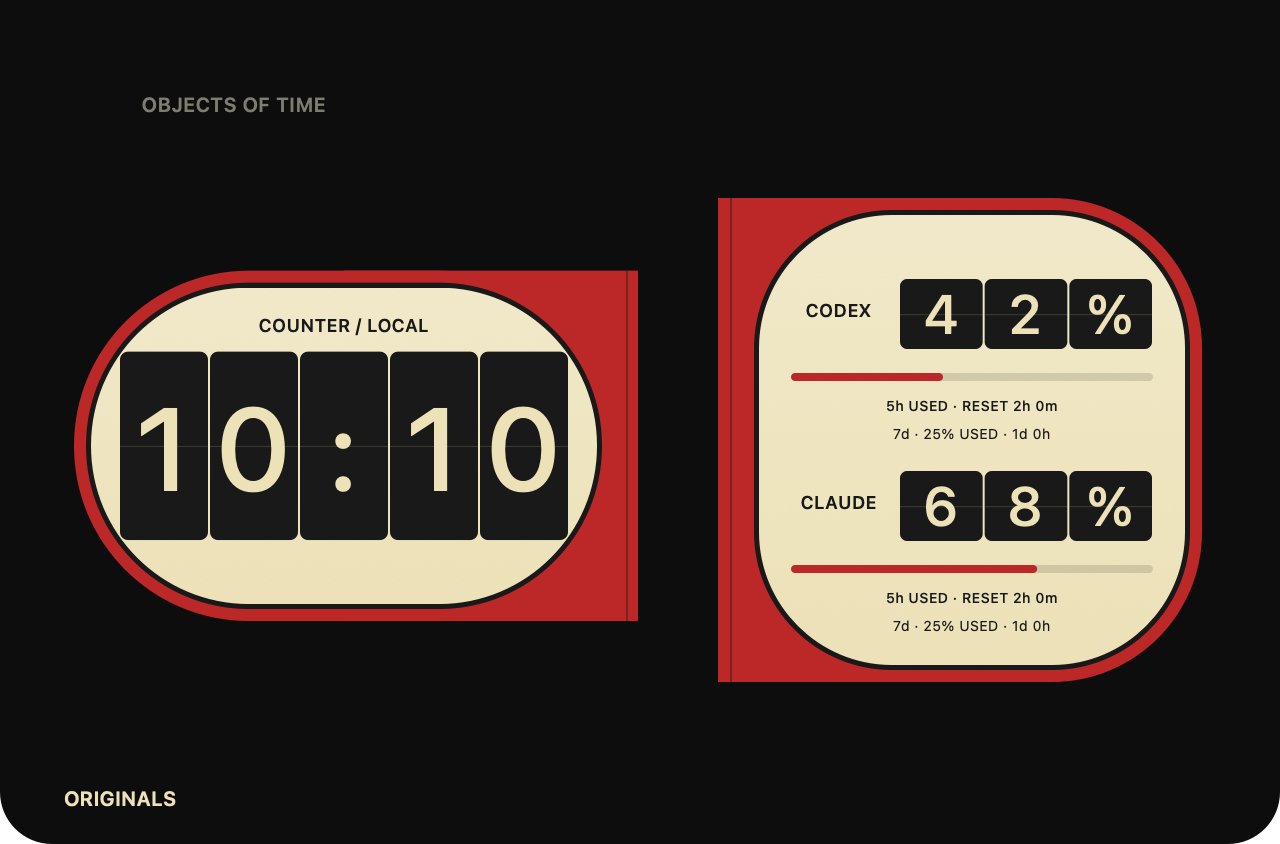
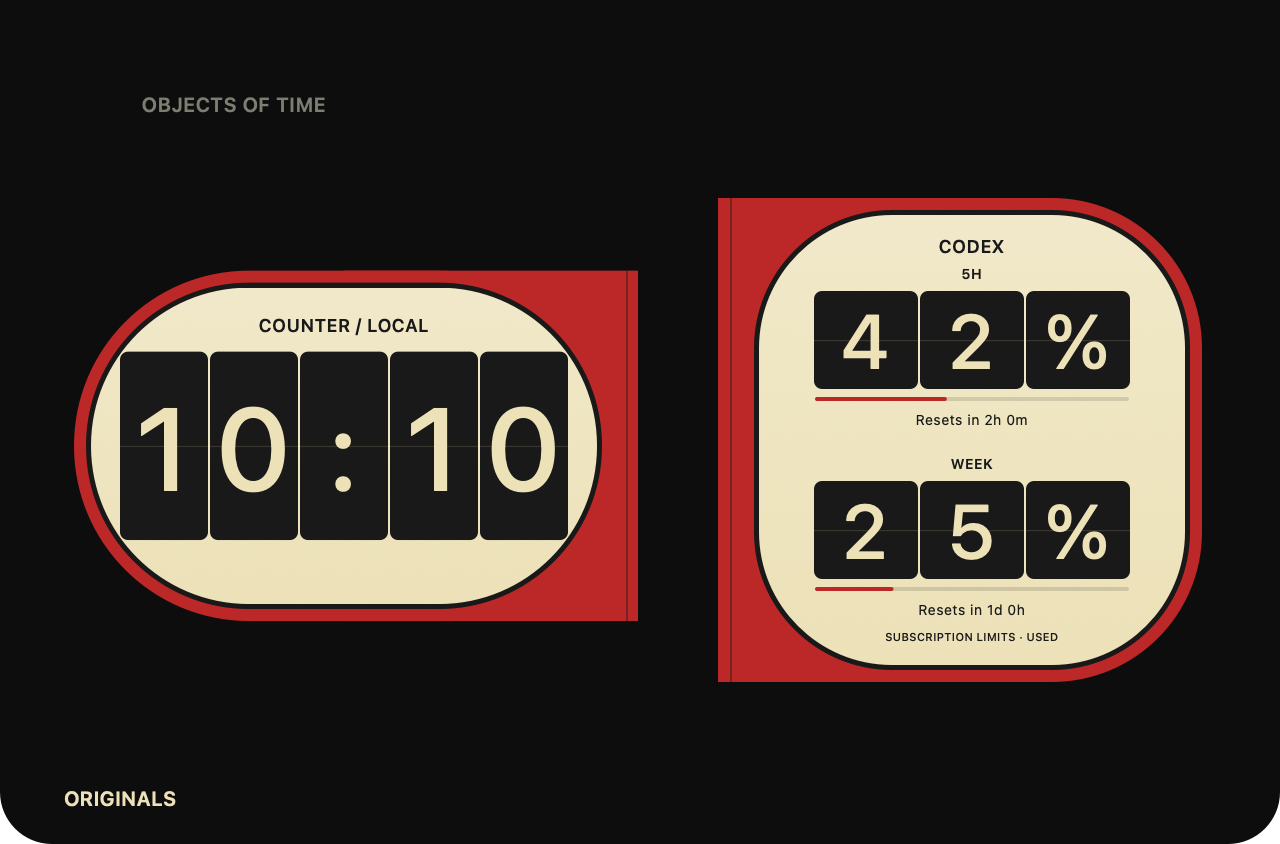
Feat: Split usage desks by provider and emphasize window percentages
Let users select one provider while keeping five-hour and weekly limits independently readable within the shared clock theme.

Key changes include:

- Add optional provider selection to widget packs with a Codex legacy default.
- Add separate Codex and Claude choices to settings and widget menus.
- Render large percentages for exact five-hour and weekly slots with smaller reset labels.
- Restrict refresh work to the selected provider and preserve unavailable states.
- Add provider isolation tests, compatible example packs, and native previews.

Changed region(s): [[0.625, 0.2773, 0.9062, 0.7701]]

diff --git a/Sources/NotchClock/UsageWidgetView.swift b/Sources/NotchClock/UsageWidgetView.swift
@@ -2,65 +2,72 @@ import AppKit
 
 @MainActor
 final class UsageWidgetView: WidgetSurfaceView {
-    private func usable(_ provider: UsageProvider) -> UsageWindow? {
-        snapshots[provider]?.windows.first(where: { !$0.isExpired(at: date) })
+    var provider = UsageProvider.codex { didSet { needsDisplay = true; updateAccessibility() } }
+
+    // Match exact windows so missing five-hour data never borrows the weekly percentage.
+    var windowRows: [UsageWindow?] {
+        [300, 10080].map { duration in
+            snapshots[provider]?.windows.first { $0.durationMinutes == duration }
+        }
     }
 
     override func updateAccessibility() {
-        let labels = UsageProvider.allCases.map { provider in
-            let snapshot = snapshots[provider]
-            let state = snapshot?.isStale(at: date) == true ? "Stale, refresh needed" :
-                (providerStatus[provider] ?? (snapshot == nil ? "Not connected" : "Cached"))
-            let windows = snapshot?.windows.map { window in
-                if window.isExpired(at: date) { return "\(window.shortLabel) window expired, awaiting data" }
-                let reset = window.resetDescription(at: date).map { ", resets in " + $0 } ?? ""
-                return "\(window.shortLabel) window, \(Int(window.usedPercent)) percent used" + reset
-            }.joined(separator: ", ") ?? "Usage unavailable"
-            return "\(provider.title), \(state), \(windows)"
-        }
-        let summary = labels.joined(separator: ". ")
-        setAccessibilityLabel((compact ? "Expand AI usage. " : "AI subscription usage. ") + summary)
+        let snapshot = snapshots[provider]
+        let state = snapshot?.isStale(at: date) == true ? "Stale, refresh needed" :
+            (providerStatus[provider] ?? (snapshot == nil ? "Not connected" : "Cached"))
+        let windows = zip(["5-hour", "Weekly"], windowRows).map { title, window in
+            guard let window else { return "\(title) usage unavailable" }
+            guard !window.isExpired(at: date) else { return "\(title) window expired, awaiting data" }
+            let reset = window.resetDescription(at: date).map { ", resets in " + $0 } ?? ""
+            return "\(title), \(Int(window.usedPercent)) percent used" + reset
+        }.joined(separator: ". ")
+        let summary = "\(provider.title) subscription usage. \(state). \(windows)"
+        setAccessibilityLabel(summary)
         toolTip = summary
     }
 
     override func draw(_ dirtyRect: NSRect) {
         let p = expansionProgress
+        let details = max(0, (p - 0.7) / 0.3)
         let dial = drawThemeHousing(in: bounds.insetBy(dx: mix(0.5, 4, p), dy: mix(0.5, 12, p)),
                                     palette: palette, accent: accent, progress: p, mountOnLeft: true)
-        for (index, provider) in UsageProvider.allCases.enumerated() {
-            let value = usable(provider).map { "\(Int($0.usedPercent))%" } ?? "--"
+        drawText(provider.title.uppercased(),
+                 at: NSRect(x: dial.minX, y: dial.minY + mix(0, 10, p), width: dial.width, height: mix(6, 13, p)),
+                 font: .systemFont(ofSize: mix(4.5, 9, p), weight: .semibold), color: palette.ink)
+        let snapshot = snapshots[provider]
+        for (index, window) in windowRows.enumerated() {
+            let valid = window.map { !$0.isExpired(at: date) } ?? false
+            let value = valid ? window.map { "\(Int($0.usedPercent))%" } ?? "--" : "--"
             let compactX = dial.minX + CGFloat(index) * dial.width / 2
-            let y = dial.minY + 32 + CGFloat(index) * 96
-            let number = mix(NSRect(x: compactX + 4, y: dial.midY - 4, width: dial.width / 2 - 8, height: 11),
-                             NSRect(x: dial.minX + 70, y: y, width: dial.width - 86, height: 35), p)
-            if value == "--" {
-                drawText(value, at: number, font: .systemFont(ofSize: mix(9, 26, p)), color: palette.ink)
-            } else { drawThemeNumber(value, in: number, family: visualFamily, palette: palette) }
-            let label = mix(NSRect(x: compactX + 2, y: dial.minY + 2, width: dial.width / 2 - 4, height: 8),
-                            NSRect(x: dial.minX + 14, y: y + 10, width: 52, height: 15), p)
-            drawText(provider == .codex ? "CODEX" : "CLAUDE", at: label,
-                     font: .systemFont(ofSize: mix(4.5, 9, p), weight: .semibold), color: palette.ink)
-            let track = mix(NSRect(x: compactX + 6, y: dial.maxY - 4, width: dial.width / 2 - 12, height: 1),
-                            NSRect(x: dial.minX + 16, y: y + 47, width: dial.width - 32, height: 4), p)
+            let y = dial.minY + 38 + CGFloat(index) * 95
+            let number = mix(NSRect(x: compactX + 3, y: dial.midY - 2, width: dial.width / 2 - 6, height: 11),
+                             NSRect(x: dial.minX + 27, y: y, width: dial.width - 54, height: 49), p)
+            if valid { drawThemeNumber(value, in: number, family: visualFamily, palette: palette) }
+            else {
+                drawText(value, at: number, font: .systemFont(ofSize: mix(10, 38, p), weight: .medium), color: palette.ink)
+            }
+            let title = index == 0 ? "5H" : "WEEK"
+            let label = mix(NSRect(x: compactX + 2, y: dial.minY + 6, width: dial.width / 2 - 4, height: 6),
+                            NSRect(x: dial.minX + 10, y: y - 13, width: dial.width - 20, height: 11), p)
+            drawText(title, at: label, font: .systemFont(ofSize: mix(4, 7, p), weight: .semibold), color: palette.ink)
+            let track = mix(NSRect(x: compactX + 6, y: dial.maxY - 3, width: dial.width / 2 - 12, height: 1),
+                            NSRect(x: dial.minX + 28, y: y + 53, width: dial.width - 56, height: 2), p)
             palette.ink.withAlphaComponent(0.14).setFill()
-            NSBezierPath(roundedRect: track, xRadius: 2, yRadius: 2).fill()
-            if let used = usable(provider)?.usedPercent {
+            NSBezierPath(roundedRect: track, xRadius: 1, yRadius: 1).fill()
+            if let window, valid {
                 accent.setFill()
                 NSBezierPath(roundedRect: NSRect(x: track.minX, y: track.minY,
-                    width: track.width * used / 100, height: track.height), xRadius: 2, yRadius: 2).fill()
+                    width: track.width * window.usedPercent / 100, height: track.height), xRadius: 1, yRadius: 1).fill()
             }
-            let snapshot = snapshots[provider]
-            let state = snapshot?.isStale(at: date) == true ? "STALE · REFRESH NEEDED" :
-                (snapshot == nil ? "NOT CONNECTED" : usable(provider).map { $0.shortLabel + " USED" + ($0.resetDescription(at: date).map { " · RESET " + $0 } ?? "") } ?? "AWAITING DATA")
-            drawText(state, at: NSRect(x: dial.minX + 14, y: y + 59, width: dial.width - 28, height: 12),
-                     font: .systemFont(ofSize: 7, weight: .medium), color: palette.ink.withAlphaComponent(max(0, (p - 0.7) / 0.3)))
-            if let second = snapshot?.displayWindows[1] {
-                let detail = second.isExpired(at: date) ? "\(second.shortLabel) RESET · AWAITING DATA" :
-                    "\(second.shortLabel) · \(Int(second.usedPercent))% USED" +
-                    (second.resetDescription(at: date).map { " · " + $0 } ?? "")
-                drawText(detail, at: NSRect(x: dial.minX + 14, y: y + 73, width: dial.width - 28, height: 12),
-                         font: .systemFont(ofSize: 7), color: palette.ink.withAlphaComponent(max(0, (p - 0.7) / 0.3)))
-            }
+            let detail: String
+            if let window {
+                detail = valid ? window.resetDescription(at: date).map { "Resets in " + $0 } ?? "Reset time unavailable" : "Reset · awaiting data"
+            } else { detail = snapshot == nil ? "Not connected" : "Usage unavailable" }
+            drawText(detail, at: NSRect(x: dial.minX + 14, y: y + 60, width: dial.width - 28, height: 11),
+                     font: .systemFont(ofSize: 7), color: palette.ink.withAlphaComponent(details))
         }
+        let status = snapshot?.isStale(at: date) == true ? "STALE · REFRESH NEEDED" : "SUBSCRIPTION LIMITS · USED"
+        drawText(status, at: NSRect(x: dial.minX, y: dial.maxY - 17, width: dial.width, height: 9),
+                 font: .systemFont(ofSize: 5.5, weight: .medium), color: palette.ink.withAlphaComponent(details))
     }
 }

diff --git a/Sources/NotchClock/AppDelegate.swift b/Sources/NotchClock/AppDelegate.swift
@@ -132,7 +132,7 @@ final class AppDelegate: NSObject, NSApplicationDelegate, NSMenuDelegate {
         widgets.submenu = widgetMenu
         menu.insertItem(widgets, at: 4)
         for (offset, title, selector) in [
-            (5, "Connect / Refresh AI Usage", #selector(refreshUsageNow)),
+            (5, "Connect / Refresh Codex Usage", #selector(refreshUsageNow)),
             (6, "Claude Connection Instructions…", #selector(showClaudeInstructions)),
             (7, "Disconnect Codex Usage", #selector(disconnectCodex))
         ] {
@@ -216,25 +216,26 @@ final class AppDelegate: NSObject, NSApplicationDelegate, NSMenuDelegate {
         content.selectWidget(design)
         applyPreferences()
         updateSettings()
-        if design.renderer != .aiUsage { usageClient.cancel() }
+        if design.renderer != .aiUsage || design.usageProvider != .codex { usageClient.cancel() }
+        lastUsageRead = .distantPast
         rebuildClockMenu()
         refresh()
     }
 
     private func refreshUsage(at date: Date, force: Bool = false) {
-        guard widgetDesign(for: selectedWidgetKey)?.renderer == .aiUsage, visible, !sleeping else { return }
+        guard let widget = widgetDesign(for: selectedWidgetKey), widget.renderer == .aiUsage,
+              visible, !sleeping else { return }
+        let provider = widget.usageProvider
         if force || date.timeIntervalSince(lastUsageRead) >= 60 {
             lastUsageRead = date
-            for provider in UsageProvider.allCases {
-                if let snapshot = UsageCache.standard.load(provider) {
-                    usageSnapshots[provider] = snapshot
-                    if provider == .claude { usageStatus[provider] = "Status-line cache" }
-                    else if usageStatus[provider] == nil { usageStatus[provider] = "Cached" }
-                }
+            if let snapshot = UsageCache.standard.load(provider) {
+                usageSnapshots[provider] = snapshot
+                if provider == .claude { usageStatus[provider] = "Status-line cache" }
+                else if usageStatus[provider] == nil { usageStatus[provider] = "Cached" }
             }
             content.applyUsage(usageSnapshots, status: usageStatus)
         }
-        guard codexEnabled, !usageClient.isRunning, force || date.timeIntervalSince(lastCodexRequest) >= 60 else { return }
+        guard provider == .codex, codexEnabled, !usageClient.isRunning, force || date.timeIntervalSince(lastCodexRequest) >= 60 else { return }
         lastCodexRequest = date
         usageStatus[.codex] = "Refreshing"
         content.applyUsage(usageSnapshots, status: usageStatus)
@@ -256,7 +257,8 @@ final class AppDelegate: NSObject, NSApplicationDelegate, NSMenuDelegate {
     @objc private func refreshUsageNow() {
         codexEnabled = true
         UserDefaults.standard.set(true, forKey: "codexUsageEnabled")
-        if widgetDesign(for: selectedWidgetKey)?.renderer != .aiUsage {
+        if widgetDesign(for: selectedWidgetKey)?.renderer != .aiUsage ||
+            widgetDesign(for: selectedWidgetKey)?.usageProvider != .codex {
             selectedWidgetKey = "dev.kavrin.originals/usage"
             UserDefaults.standard.set(selectedWidgetKey, forKey: "selectedWidget")
             content.selectWidget(WidgetDesign.originals[1])

diff --git a/Tests/NotchClockTests/ProviderDeskTests.swift b/Tests/NotchClockTests/ProviderDeskTests.swift
@@ -1,0 +1,44 @@
+import AppKit
+import XCTest
+@testable import NotchClock
+
+@MainActor
+final class ProviderDeskTests: XCTestCase {
+    func testSelectedProviderKeepsFiveHourAndWeeklySlotsIsolated() throws {
+        let date = Date(timeIntervalSince1970: 2_000_000_000)
+        let view = UsageWidgetView(compact: true)
+        view.date = date
+        let weekly = UsageWindow(usedPercent: 73, durationMinutes: 10080, resetsAt: date.addingTimeInterval(3600))
+        view.snapshots = [
+            .codex: UsageSnapshot(provider: .codex, observedAt: date, windows: [weekly]),
+            .claude: UsageSnapshot(provider: .claude, observedAt: date, windows: [
+                UsageWindow(usedPercent: 12, durationMinutes: 300, resetsAt: date.addingTimeInterval(60))
+            ])
+        ]
+        XCTAssertNil(view.windowRows[0])
+        XCTAssertEqual(view.windowRows[1], weekly)
+        view.updateAccessibility()
+        XCTAssertTrue(view.accessibilityLabel()?.contains("5-hour usage unavailable") == true)
+        XCTAssertTrue(view.accessibilityLabel()?.contains("73 percent used") == true)
+        view.provider = .claude
+        XCTAssertEqual(view.windowRows[0]?.usedPercent, 12)
+        XCTAssertNil(view.windowRows[1])
+        XCTAssertFalse(view.accessibilityLabel()?.contains("73 percent") == true)
+        view.date = date.addingTimeInterval(61)
+        view.updateAccessibility()
+        XCTAssertTrue(view.accessibilityLabel()?.contains("expired") == true)
+        XCTAssertFalse(view.accessibilityLabel()?.contains("12 percent used") == true)
+    }
+
+    func testPackProviderSelectionAndLegacyDefault() throws {
+        let legacy = Data(#"{"schemaVersion":1,"id":"test.desks","name":"Desks","clocks":[],"widgets":[{"id":"usage","name":"Usage","renderer":"aiUsage","accent":"C93D33"}]}"#.utf8)
+        let design = try XCTUnwrap(ClockPack.decode(legacy).widgets?.first)
+        XCTAssertEqual(design.usageProvider, .codex)
+        let explicit = Data(String(decoding: legacy, as: UTF8.self).replacingOccurrences(of: "\"accent\":", with: "\"provider\":\"claude\",\"accent\":").utf8)
+        let claude = try XCTUnwrap(ClockPack.decode(explicit).widgets?.first)
+        let view = try XCTUnwrap(WidgetViewFactory.make(claude, compact: true) as? UsageWidgetView)
+        XCTAssertEqual(view.provider, .claude)
+        let invalid = Data(String(decoding: explicit, as: UTF8.self).replacingOccurrences(of: "\"claude\"", with: "\"other\"").utf8)
+        XCTAssertThrowsError(try ClockPack.decode(invalid))
+    }
+}

diff --git a/Sources/NotchClock/WidgetDesign.swift b/Sources/NotchClock/WidgetDesign.swift
@@ -7,9 +7,12 @@ struct WidgetDesign: Codable, Equatable, Sendable {
     let name: String
     let renderer: WidgetRenderer
     let accent: String
+    var provider: UsageProvider? = nil
+    var usageProvider: UsageProvider { provider ?? .codex }
     static let originals = [
         WidgetDesign(id: "date", name: "The Daily One", renderer: .flipDate, accent: "D35C3F"),
-        WidgetDesign(id: "usage", name: "The AI Desk", renderer: .aiUsage, accent: "9BAF84")
+        WidgetDesign(id: "usage", name: "Codex Desk", renderer: .aiUsage, accent: "9BAF84", provider: .codex),
+        WidgetDesign(id: "claude-usage", name: "Claude Desk", renderer: .aiUsage, accent: "9BAF84", provider: .claude)
     ]
 }
 
@@ -36,7 +39,10 @@ enum WidgetViewFactory {
         let view: WidgetSurfaceView
         switch design.renderer {
         case .flipDate: view = DateWidgetView(compact: compact)
-        case .aiUsage: view = UsageWidgetView(compact: compact)
+        case .aiUsage:
+            let usage = UsageWidgetView(compact: compact)
+            usage.provider = design.usageProvider
+            view = usage
         }
         view.displayName = design.name
         let rgb = UInt32(design.accent, radix: 16) ?? 0xD35C3F

diff --git a/docs/RIGHT_SIDE_WIDGETS.md b/docs/RIGHT_SIDE_WIDGETS.md
@@ -102,3 +102,19 @@ A 72-second release-app run with the digital clock and AI widget recorded the fo
 The Codex helper and its descendants were sampled separately every approximately 250 ms. Their combined RSS briefly peaked at 125.2 MiB, with up to four helper processes observed. No helper remained in the final sample. These helpers are outside the host CPU/footprint figures above, so those figures are not total-system cost. Helper CPU was not measured. The short run does not establish battery life or long-run memory stability. Raw samples and screenshots are ignored under `output/` and remain outside the vault.
 
 The widget-only Desk Widgets example was also installed through the native file picker. Its Blue Calendar appeared under Right-side Widgets, applied its accent in compact mode, and left the selected clock unchanged. Both built-in widgets were then checked beside the analog clock. The app was left showing the AI desk with real Codex readings and an unconnected Claude state.
+
+## Provider-specific desks
+
+Choose **Codex Desk** or **Claude Desk** from **Settings → Right side** or the **Right-side Widgets** menu. A desk shows only its selected provider. Both compact and expanded layouts have separate 5H and WEEK slots; the expanded percentages are the dominant text, with smaller window labels, reset times, and connection/freshness details. Existing hover morphing and theme recipes apply to both desks.
+
+The two slots match 300-minute and 10,080-minute windows exactly. Missing and expired windows show `--` rather than substituting another window or provider. The accessibility description and tooltip identify the selected provider, unavailable slots, stale data, and reset times.
+
+Pack widget entries may specify `"provider": "codex"` or `"provider": "claude"` alongside `"renderer": "aiUsage"`. Legacy entries without a provider default to Codex. The existing built-in `usage` ID is retained as Codex Desk so saved selections remain valid. Claude Desk uses `claude-usage`.
+
+Selecting Claude Desk reads its status-line cache and cancels any in-flight Codex request. It does not start Codex refreshes. **Connect / Refresh Codex Usage** explicitly switches to Codex Desk. Claude still needs its existing status-line capture setup; selecting the widget does not connect a provider automatically.
+
+Provider desk previews below use synthetic sample data.
+
+![Codex desk with five-hour and weekly limits](previews/wavy-usage-expanded.png)
+
+![Claude desk with five-hour and weekly limits](previews/claude-usage-expanded.png)

diff --git a/docs/THEME_PLUGINS.md b/docs/THEME_PLUGINS.md
@@ -39,3 +39,5 @@ The current theme recipe includes the clock, calendar, and usage desk. Each uses
 Optional `family` accepts `wavy` or `counter`; choosing that theme recommends the family for the entire bar. The Visual family control can override the recommendation. Counter objects is a bundled theme that selects Counter. The [complete Wavy Objects example](../examples/wavy-objects.clockpack.json) includes both clocks, both right-side items, and a matching theme in one plugin.
 
 Choose a theme from **Settings → Theme plugin**. All components and intermediate morph states use that choice. The earlier per-widget design-accent behavior described above is superseded by this shared housing contract.
+
+Usage desk designs can additionally select `provider: "codex"` or `provider: "claude"`. Both use the same selected theme and numeral family; provider selection controls data, not appearance. The Wavy Objects and Desk Widgets examples now include a separate desk for each provider.
